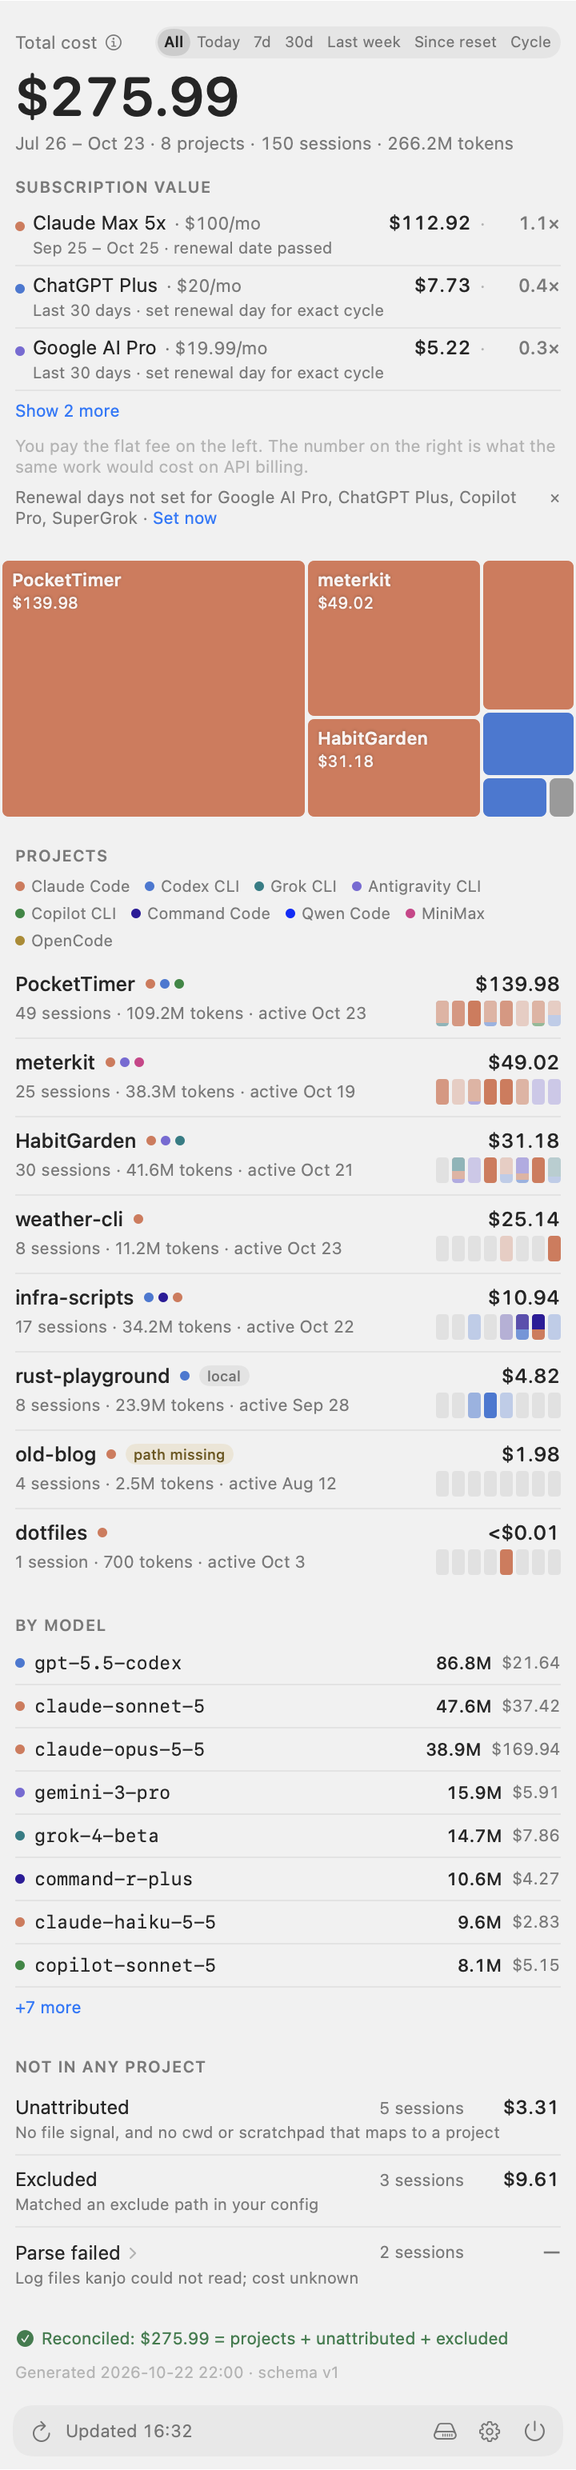
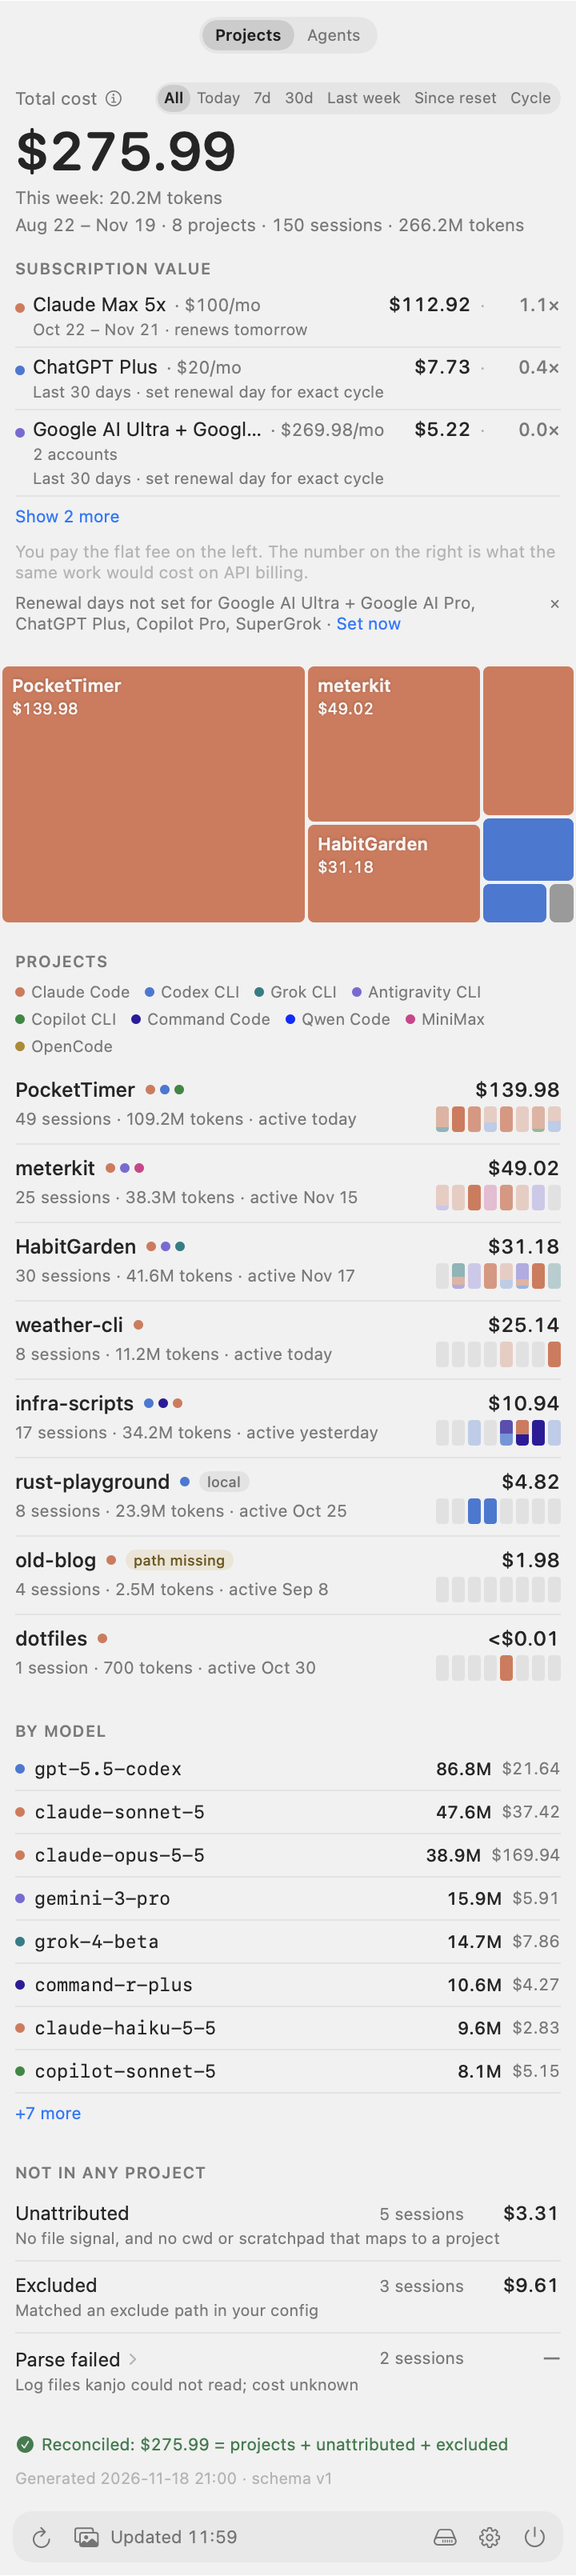
README: refresh all screenshots, add Agents view, share image and Windows sections

diff --git a/README.md b/README.md
@@ -6,12 +6,13 @@
 
 <p align="center">
   <strong>How much AI money did each git repo cost?</strong><br>
-  <sub>A macOS menu bar app and CLI that turn Claude Code, Codex, Antigravity, Grok, Qwen, Command Code, MiniMax, OpenCode and Copilot CLI logs into one bill per repo.</sub><br><br>
+  <sub>A macOS menu bar app, a Windows tray app and a CLI that turn the logs of Claude Code, Codex, Antigravity, Grok, Copilot CLI, Qwen, Command Code, MiniMax, OpenCode and 20 more coding agents into one bill per repo.</sub><br><br>
   <a href="#中文">中文</a> · <a href="https://github.com/mammut001/kanjo/releases/latest">Download</a> · <a href="ATTRIBUTION.md">How attribution works</a>
 </p>
 
 <p align="center">
   <img src="https://img.shields.io/badge/platform-macOS_13+-black?style=flat-square&logo=apple&logoColor=white" alt="macOS 13+">
+  <img src="https://img.shields.io/badge/platform-Windows_10+-0078D4?style=flat-square&logo=windows&logoColor=white" alt="Windows 10+">
   <img src="https://img.shields.io/badge/swift-5.9+-F05138?style=flat-square&logo=swift&logoColor=white" alt="Swift 5.9+">
   <img src="https://img.shields.io/badge/python-3.9+-3776AB?style=flat-square&logo=python&logoColor=white" alt="Python 3.9+">
   <img src="https://img.shields.io/badge/license-MIT-green?style=flat-square" alt="MIT">
@@ -21,9 +22,11 @@
 ---
 
 <p align="center">
+  <img src="docs/screenshots/overview-dark.png" width="360" alt="Kanjo overview, dark (default)">
   <img src="docs/screenshots/overview-light.png" width="360" alt="Kanjo overview, light">
-  <img src="docs/screenshots/overview-dark.png" width="360" alt="Kanjo overview, dark">
 </p>
+
+<p align="center"><sub>All screenshots use the bundled sample data (<code>ui/fixtures/sample.json</code>), not real usage.</sub></p>
 
 ## Why
 
@@ -33,30 +36,75 @@ Kanjo scans the local logs of your AI coding agents once, attributes every sessi
 
 ## What you get
 
-- **A treemap of your repos by cost.** One glance tells you where the money went.
-- **An 8-week burn strip per repo**, colored by agent across all 9 supported tools.
-- **Subscription value for all agents.** Your plan's flat fee next to what this billing cycle's work would have cost on API billing, and the multiplier. Shows top 3 rows by default with a "Show N more" collapse toggle, and rows can be dragged to choose which 3 stay on top. Detected automatically for Claude, Codex, Grok, and Antigravity, or configured manually in Settings for any agent. Hover a plan to see its 5-hour and weekly quota: how much is used and when each window resets (Antigravity also includes Claude/GPT extra windows; Command Code has no quota bar). Hover a treemap tile for its per-agent cost and tokens.
-- **Standalone quota fetching.** Kanjo is fully standalone — it reads local agent logs and fetches quota itself directly using local credentials (Antigravity via local language server on 127.0.0.1, ChatGPT, Claude, and Grok). Read-only, credentials stay in memory only, nothing is uploaded, and `KANJO_NO_NETWORK=1` (or `no_network = true` in config) disables all network requests. Tokei caches serve as an optional fallback only.
+### Overview: every repo, one bill
+
+- **A treemap of your repos by cost.** One glance tells you where the money went. Hover a tile for its per-agent cost and tokens.
+- **Total cost and this week's tokens** (since Monday) at the top, with the date span, project, session and token counts below.
+- **An 8-week burn strip per repo**, colored by agent, plus dots for the agents that worked on it.
 - **Time ranges**: all time, Today, 7 days, 30 days, last week, *since your last quota reset*, or *this billing cycle*.
-- **Menu bar in cost or tokens mode.** Displays either spend (`$`) or total tokens with compact formatting and range suffixes.
-- **Languages.** Fully localized into English, 简体中文, and Français, with localized token units (`k`/`M`/`B`, `万`/`亿`, `k`/`M`/`Md`).
-- **Per-repo detail and overview model breakdown**: by agent, by model, by day, by branch, every session with how it was attributed, and the repo's share of each plan's cycle.
-- **Disk.** How much space each agent's logs, scratch worktrees and caches take, what is safe to reclaim, and a cleanup that goes through the Trash. Your statistics stay in a permanent ledger, so deleting logs never deletes history.
+- **By model**: tokens and cost per model across all repos, and a *Not in any project* section for sessions that could not be attributed or were excluded — so the total always reconciles.
 - **Hide and pin** repos you don't care about or care about most.
-- **Liquid Glass** on macOS 26, a plain material on 13–25.
+
+### Subscriptions and quotas
+
+- **Subscription value for all agents.** Your plan's flat fee next to what this billing cycle's work would have cost on API billing, and the multiplier. Shows the top 3 rows with a "Show N more" toggle; drag rows to choose which 3 stay on top. Detected automatically for Claude, Codex, Grok and Antigravity, or set manually in Settings for any agent.
+- **Quota on hover.** Hover a plan to see its 5-hour and weekly windows: how much is used and when each one resets (Antigravity also shows its Claude/GPT windows; Command Code has no quota bar).
+- **Standalone quota fetching.** Kanjo reads local agent logs and fetches quota itself with your local credentials (Antigravity via its local language server on 127.0.0.1, ChatGPT, Claude and Grok). Read-only, credentials stay in memory, nothing is uploaded, and `KANJO_NO_NETWORK=1` (or `no_network = true` in config) turns off all network requests. Tokei caches are only an optional fallback.
 
 <p align="center">
   <img src="docs/screenshots/quota-hover-claude.png" width="360" alt="Quota card on hover: Claude Max 5-hour and weekly windows">
-  <img src="docs/screenshots/quota-hover-antigravity.png" width="360" alt="Quota card on hover: Antigravity Google AI Pro with Gemini and Claude/GPT extra windows">
+  <img src="docs/screenshots/quota-hover-antigravity.png" width="360" alt="Quota card on hover: Google AI Ultra with Gemini and Claude/GPT windows">
 </p>
 
+### Agents view
+
+- **One row per agent** (toggle *Projects / Agents* at the top of the panel): tokens, cost, value multiplier and quota tick bars for each window with its reset countdown.
+- **Hover or click an agent** for its token breakdown, output speed, time to first token, models and where the money went. Antigravity also shows each Google account's share.
+
+### Project detail
+
+- **Per repo**: tokens by type (input, output, thinking, cache read/write), by agent, by model, by day, by branch, every session with how it was attributed, and the repo's share of each plan's cycle.
+
 <p align="center">
-  <img src="docs/screenshots/mosaic-hover.png" width="360" alt="Treemap hover card: per-agent cost and tokens">
+  <img src="docs/screenshots/agents-dark.png" width="360" alt="Agents view: per-agent tokens, cost, multiplier and quota bars">
   <img src="docs/screenshots/detail-light.png" width="360" alt="Project detail">
 </p>
 
+### Share your usage as an image
+
+- **One click copies a share card** (the photo button in the panel footer): total cost, your projects as a mosaic, each agent with tokens, cost and value multiplier, and input / output / cache totals for the selected range. Paste it into a chat or a post. Mac and Windows render the same card.
+
 <p align="center">
+  <img src="docs/screenshots/share.png" width="640" alt="Share image: total, project mosaic, agents and token totals">
+</p>
+
+### Disk
+
+- **How much space** each agent's logs, scratch worktrees and caches take, and what is safe to reclaim. Cleanup goes through the Trash.
+- **Merged worktrees.** Finds git worktrees inside Claude Code scratch folders and `.claude/worktrees`, tells you which are already merged (squash merges too), and can clean merged, unchanged ones automatically.
+- Your statistics stay in a permanent ledger, so deleting logs never deletes history.
+
+<p align="center">
+  <img src="docs/screenshots/mosaic-hover.png" width="360" alt="Treemap hover card: per-agent cost and tokens">
   <img src="docs/screenshots/disk-light.png" width="360" alt="Disk page">
+</p>
+
+### Everyday use
+
+- **Opens instantly.** Kanjo refreshes in the background when agents write new usage, at an interval you choose (30 s, 1 min, 5 min or 10 min), and waits while the Mac is busy or in Low Power Mode. Opening the panel never waits for a refresh.
+- **Menu bar in cost or tokens mode**, with compact formatting and range suffixes.
+- **Dark by default**; Settings → General → Appearance switches to light or follows the system.
+- **Languages.** English, 简体中文 and Français, with localized token units (`k`/`M`/`B`, `万`/`亿`, `k`/`M`/`Md`).
+- **In-app updates** (Sparkle on macOS; the Windows app updates itself), or `brew upgrade --cask kanjo`.
+- **In a terminal:** `kanjo usage` is an htop-style view of the same numbers, for Linux servers over SSH.
+
+### Windows
+
+Kanjo for Windows is a native tray app with the same pages, hover cards, share image and background refresh as the Mac app, and the Python CLI bundled. See [Install](#install).
+
+<p align="center">
+  <img src="docs/screenshots/windows-overview-dark.png" width="360" alt="Kanjo for Windows: overview">
+  <img src="docs/screenshots/windows-project-dark.png" width="360" alt="Kanjo for Windows: project detail">
 </p>
 
 Every number is an **API-equivalent cost**: tokens × public API price. It is what the same work would have cost on pay-as-you-go billing. If you pay a subscription, it is not what you paid. The app shows this note via an ⓘ tooltip next to Total cost and does not let you hide it.
@@ -322,9 +370,13 @@ ATTRIBUTION.md   attribution rules (normative)
 CONTRACT.md      JSON format between CLI and app (the only interface)
 cli/             Python CLI: parsers, attribution, pricing, export
 ui/              SwiftUI menu bar app (SwiftPM; KanjoCore library + Kanjo executable)
+windows/         Windows tray app (Avalonia / .NET; Kanjo.Core + Kanjo.App)
+ios/             iPhone companion app
+family-server/   optional self-hosted family usage server
+docs/screenshots README screenshots, rendered from ui/fixtures/sample.json
 ```
 
-The CLI and the app are developed independently and meet only at the JSON in [CONTRACT.md](CONTRACT.md). Pricing comes from Tokei's `pricing.json` (MIT); models missing from the table are priced by their closest known relative and marked *estimated*.
+The CLI and the apps are developed independently and meet only at the JSON in [CONTRACT.md](CONTRACT.md). Pricing comes from Tokei's `pricing.json` (MIT); models missing from the table are priced by their closest known relative and marked *estimated*.
 
 ## Kanjo and Tokei
 
@@ -348,19 +400,70 @@ MIT.
 
 Kanjo 扫一遍本机 AI 编程工具的日志，把每个会话归到一个 git 仓库，然后按项目算账：不按天，不按工具，按 repo，跨所有 agent。
 
+<p align="center">
+  <img src="docs/screenshots/overview-dark-zh.png" width="360" alt="Kanjo 总览（中文界面）">
+  <img src="docs/screenshots/agents-dark-zh.png" width="360" alt="Agent 视图（中文界面）">
+</p>
+
+<p align="center"><sub>截图均使用内置示例数据（<code>ui/fixtures/sample.json</code>），不是真实用量。</sub></p>
+
 ### 功能
 
-- **按花费的 treemap**：一眼看出钱去哪了。
-- **每个 repo 一条 8 周燃烧热力条**，按 9 种 agent 分色，每周花费构成一目了然。
-- **所有 agent 的订阅价值**：左边是你实际付的月费，右边是本账期的活按 API 计费要多少，以及倍数。默认展示前 3 行，提供“展开其余 N 项”折叠切换，并支持拖拽自定义前 3 项排序。Claude、Codex、Grok 和 Antigravity 自动识别，其他 agent 均可在设置中手动配置。悬停可查看 5 小时与周额度窗口及重置倒计时（Antigravity 额外展示 Claude/GPT 附加窗口；Command Code 无额度条）。
-- **完全独立取数**：直接从本机日志与本地凭据获取额度（Antigravity 走本地 127.0.0.1 语言服务、ChatGPT、Claude、Grok），凭据仅留存内存、绝不上传，可设 `KANJO_NO_NETWORK=1` 禁用联网。Tokei 仅作为可选后备。Antigravity 同时自动识别 `~/.gemini/antigravity-cli` 与 `~/.gemini/antigravity`。
-- **时间范围**：全部、**今天**、7 天、30 天、上周、自上次额度重置以来、或本账期。
-- **菜单栏金额与 Token 模式**：可在设置中切换显示金额或 Token 数，带紧凑进位与时间范围后缀。
-- **多语言界面**：原生支持 English、简体中文与 Français，以及本地化的 Token 计数单位（万/亿、k/M/B、k/M/Md）。
-- **项目详情与总览模型分布**：按 agent、按模型、按天、按分支，每个会话是怎么归属的，以及这个 repo 占了你各订阅本账期的多少。
-- **Disk**：每个工具的日志、临时 worktree、缓存各占多少空间，哪些能安全回收，清理走废纸篓。统计数据存在永久账本里，删日志不丢历史。
+**总览：每个 repo 一张账单**
+
+- **按花费的 treemap**：一眼看出钱去哪了。悬停色块可看各 agent 的花费和 token。
+- **总花费与本周 token**（从周一算起），下方是日期范围、项目数、会话数和 token 总量。
+- **每个 repo 一条 8 周燃烧热力条**，按 agent 分色，旁边的小圆点是参与过的 agent。
+- **时间范围**：全部、今天、7 天、30 天、上周、自上次额度重置以来、或本账期。
+- **按模型**：所有 repo 合计的各模型 token 与花费；「不属于任何项目」一栏列出无法归属或被排除的会话，总数始终对得上。
 - **隐藏与置顶**。
-- macOS 26 用 **Liquid Glass**，13 到 25 用普通材质。
+
+**订阅与额度**
+
+- **所有 agent 的订阅价值**：左边是你实际付的月费，右边是本账期的活按 API 计费要多少，以及倍数。默认展示前 3 行，可「展开其余 N 项」，也可拖拽决定哪 3 项排在前面。Claude、Codex、Grok 和 Antigravity 自动识别，其他 agent 可在设置中手动配置。
+- **悬停看额度**：5 小时与每周窗口用了多少、什么时候重置（Antigravity 额外显示 Claude/GPT 窗口；Command Code 没有额度条）。
+- **完全独立取数**：直接读本机日志，并用本地凭据获取额度（Antigravity 走本地 127.0.0.1 语言服务、ChatGPT、Claude、Grok）。只读，凭据只留在内存，绝不上传；设 `KANJO_NO_NETWORK=1`（或配置里 `no_network = true`）可禁用全部联网。Tokei 缓存仅作可选后备。Antigravity 同时自动识别 `~/.gemini/antigravity-cli` 与 `~/.gemini/antigravity`。
+
+**Agent 视图**
+
+- 面板顶部切换「项目 / Agent」：每个 agent 一行，显示 token、花费、价值倍数，以及每个额度窗口的刻度条和重置倒计时。
+- 悬停或点击某个 agent，可看 token 构成、输出速度、首 token 延迟、模型分布和钱花在哪；Antigravity 还会显示每个 Google 账号的占比。
+
+**项目详情**
+
+- 按 token 类型（输入、输出、思考、缓存读写）、按 agent、按模型、按天、按分支，每个会话是怎么归属的，以及这个 repo 占了你各订阅本账期的多少。
+
+**分享图**
+
+- 面板底部的图片按钮一键复制分享卡片：总花费、项目马赛克、各 agent 的 token、花费和价值倍数，以及输入 / 输出 / 缓存合计。可以直接粘贴到聊天或帖子里。Mac 和 Windows 生成的是同一张卡片。
+
+<p align="center">
+  <img src="docs/screenshots/share-zh.png" width="640" alt="分享图（中文界面）">
+</p>
+
+**Disk**
+
+- 每个工具的日志、临时 worktree、缓存各占多少空间，哪些能安全回收，清理走废纸篓。
+- 能找到 Claude Code 临时目录和 `.claude/worktrees` 里的 git worktree，告诉你哪些已经合并（包括 squash 合并），并可自动清理已合并且无改动的 worktree。
+- 统计数据存在永久账本里，删日志不丢历史。
+
+**日常使用**
+
+- **打开即用**：agent 写入新用量时在后台刷新，间隔可选（30 秒、1 分钟、5 分钟、10 分钟）；电脑忙或低电量模式时会推迟。打开面板从不等待刷新。
+- **菜单栏金额或 Token 模式**，带紧凑进位与时间范围后缀。
+- **默认深色**；设置 → 通用 → 外观可切换浅色或跟随系统。
+- **多语言界面**：English、简体中文与 Français，以及本地化的 Token 单位（万/亿、k/M/B、k/M/Md）。
+- **应用内更新**（macOS 用 Sparkle，Windows 版自动更新），或 `brew upgrade --cask kanjo`。
+- **终端里**：`kanjo usage` 是同样数据的 htop 风格视图，适合通过 SSH 看 Linux 服务器。
+
+**Windows 版**
+
+原生托盘应用，页面、悬停卡片、分享图和后台刷新与 Mac 版一致，内置 Python CLI。安装方法见下方「安装」。
+
+<p align="center">
+  <img src="docs/screenshots/windows-overview-dark.png" width="360" alt="Windows 版总览">
+  <img src="docs/screenshots/windows-project-dark.png" width="360" alt="Windows 版项目详情">
+</p>
 
 所有数字都是 **API 等价成本**：token 乘以公开 API 单价。订阅用户的实际支出不是这个数，app 在 Total cost 旁的 ⓘ 提示中醒目标注，并且不能隐藏。
 
